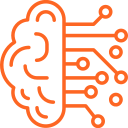
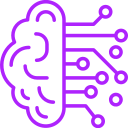
fix: cambios

diff --git a/index.html b/index.html
@@ -188,42 +188,36 @@
                     <!-- Tokenization Real Assets -->
                     <div class="flex items-center justify-center md:justify-end">
                         <h3 class="text-3xl font-bold text-right flex-1">Tokenization Real Assets</h3>
-                        <svg class="gradient-icon w-20 h-20" xmlns="http://www.w3.org/2000/svg" width="48" height="48" viewBox="0 0 24 24" fill="none"
-                            stroke="#3f6fa3" stroke-width="2" stroke-linecap="round" stroke-linejoin="round"
-                            class="lucide lucide-wallet">
-                            <path
-                                d="M19 7V4a1 1 0 0 0-1-1H5a2 2 0 0 0 0 4h15a1 1 0 0 1 1 1v4h-3a2 2 0 0 0 0 4h3a1 1 0 0 0 1-1v-2a1 1 0 0 0-1-1" />
-                            <path d="M3 5v14a2 2 0 0 0 2 2h15a1 1 0 0 0 1-1v-4" />
-                        </svg>
+                        <img src="src/images/ico-we-do-7.png" alt="" srcset="" style="height: 4rem;">
                     </div>
 
                     <!-- NFT Strategy and Execution -->
                     <div class="flex items-center  justify-center md:justify-end">
-                        <svg class="gradient-icon w-20 h-20" xmlns="http://www.w3.org/2000/svg" width="48" height="48" viewBox="0 0 24 24" fill="none" stroke="#3f6fa3" stroke-width="2" stroke-linecap="round" stroke-linejoin="round" class="lucide lucide-brush"><path d="m9.06 11.9 8.07-8.06a2.85 2.85 0 1 1 4.03 4.03l-8.06 8.08"/><path d="M7.07 14.94c-1.66 0-3 1.35-3 3.02 0 1.33-2.5 1.52-2 2.02 1.08 1.1 2.49 2.02 4 2.02 2.2 0 4-1.8 4-4.04a3.01 3.01 0 0 0-3-3.02z"/></svg>
+                        <img src="src/images/ico-we-do-3.png" alt="" srcset="" style="height: 4rem;">
                         <h3 class="text-3xl font-bold  text-left flex-1">NFT Strategy and Execution</h3>
                     </div>
 
                     <!-- Gaming, Metaverse, and Web3 -->
                     <div class="flex items-center justify-center">
                         <h3 class="text-3xl font-bold  text-right flex-1">Gaming, Metaverse and Web3</h3>
-                        <i class="fas fa-gamepad text-6xl gradient-text ml-4"></i>
+                        <img src="src/images/ico-we-do-4.png" alt="" srcset="" style="height: 4rem;">
                     </div>
 
                     <!-- AI -->
                     <div class="flex items-center justify-center">
-                        <svg class="gradient-icon w-20 h-20"  xmlns="http://www.w3.org/2000/svg" width="48" height="48" viewBox="0 0 24 24" fill="none" stroke="#3f6fa3" stroke-width="2" stroke-linecap="round" stroke-linejoin="round" class="lucide lucide-brain-circuit"><path d="M12 5a3 3 0 1 0-5.997.125 4 4 0 0 0-2.526 5.77 4 4 0 0 0 .556 6.588A4 4 0 1 0 12 18Z"/><path d="M9 13a4.5 4.5 0 0 0 3-4"/><path d="M6.003 5.125A3 3 0 0 0 6.401 6.5"/><path d="M3.477 10.896a4 4 0 0 1 .585-.396"/><path d="M6 18a4 4 0 0 1-1.967-.516"/><path d="M12 13h4"/><path d="M12 18h6a2 2 0 0 1 2 2v1"/><path d="M12 8h8"/><path d="M16 8V5a2 2 0 0 1 2-2"/><circle cx="16" cy="13" r=".5"/><circle cx="18" cy="3" r=".5"/><circle cx="20" cy="21" r=".5"/><circle cx="20" cy="8" r=".5"/></svg>
+                        <img src="src/images/ico-we-do-1.png" alt="" srcset="" style="height: 4rem;">
                         <h3 class="text-3xl font-bold  text-left flex-1">AI, LLMs & Machine Vision</h3>
                     </div>
 
                     <!-- IoT and Massive Data Ingestion -->
                     <div class="flex items-center justify-center">
                         <h3 class="text-3xl font-bold text-right flex-1">IoT and Massive Data Ingestion</h3>
-                        <i class="fas fa-network-wired text-6xl gradient-text ml-4"></i>
+                        <img src="src/images/ico-we-do-5.png" alt="" srcset="" style="height: 4rem;">
                     </div>
 
                     <!-- Networking & Cloud Infrastructure -->
                     <div class="flex items-center justify-center">
-                        <svg class="gradient-icon w-20 h-20" xmlns="http://www.w3.org/2000/svg" width="48" height="48" viewBox="0 0 24 24" fill="none" stroke="#3f6fa3" stroke-width="2" stroke-linecap="round" stroke-linejoin="round" class="lucide lucide-cloud-upload"><path d="M12 13v8"/><path d="M4 14.899A7 7 0 1 1 15.71 8h1.79a4.5 4.5 0 0 1 2.5 8.242"/><path d="m8 17 4-4 4 4"/></svg>
+                        <img src="src/images/ico-we-do-8.png" alt="" srcset="" style="height: 4rem;">
                         <h3 class="text-3xl font-bold text-left flex-1">Networking & Cloud Infrastructure
                         </h3>
                     </div>
@@ -231,7 +225,7 @@
                     <!-- Cybersecurity -->
                     <div class="flex items-center justify-center">
                         <h3 class="text-3xl font-bold text-right flex-1">Cybersecurity</h3>
-                        <svg class="gradient-icon w-20 h-20" xmlns="http://www.w3.org/2000/svg" width="48" height="48" viewBox="0 0 24 24" fill="none" stroke="#3f6fa3" stroke-width="2" stroke-linecap="round" stroke-linejoin="round" class="lucide lucide-shield-check"><path d="M20 13c0 5-3.5 7.5-7.66 8.95a1 1 0 0 1-.67-.01C7.5 20.5 4 18 4 13V6a1 1 0 0 1 1-1c2 0 4.5-1.2 6.24-2.72a1.17 1.17 0 0 1 1.52 0C14.51 3.81 17 5 19 5a1 1 0 0 1 1 1z"/><path d="m9 12 2 2 4-4"/></svg>
+                        <img src="src/images/ico-we-do-6.png" alt="" srcset="" style="height: 4rem;">
                     </div>
 
                     <!-- Fintech Infrastructure -->
@@ -260,7 +254,7 @@
                     solutions and solid strategies to stay competitive. That’s why we offer consulting and technological
                     development in the following areas:
                 </p>
-                <h3 class="text-3xl md:text-4xl font-bold mb-12 text-orange-600">
+                <h3 class="text-3xl md:text-4xl font-bold mb-12 text-gray-400">
                     Research + Development & Innovation
                 </h3>
                 <p class="text-2xl md:text-3xl mb-16 max-w-3xl mx-auto text-white">
@@ -283,7 +277,7 @@
                             <li>Security and privacy: AI with regulatory compliance.</li>
                         </ul>
                         <div
-                            class="absolute top-0 left-0 w-2 h-full bg-orange-600 group-hover:w-full transition-all duration-500">
+                            class="absolute top-0 left-0 w-2 h-full bg-gray-800 group-hover:w-full transition-all duration-500">
                         </div>
                     </div>
                     <!-- Brand & Digital Strategy -->
@@ -300,7 +294,7 @@
                             <li>Content creation and audiovisual production.</li>
                         </ul>
                         <div
-                            class="absolute top-0 left-0 w-2 h-full bg-orange-600 group-hover:w-full transition-all duration-500">
+                            class="absolute top-0 left-0 w-2 h-full bg-gray-800 group-hover:w-full transition-all duration-500">
                         </div>
                     </div>
                     <!-- Vulnerability Assessments & Compliance -->
@@ -320,7 +314,7 @@
                             <li>Risk assessments and regulatory compliance</li>
                         </ul>
                         <div
-                            class="absolute top-0 left-0 w-2 h-full bg-orange-600 group-hover:w-full transition-all duration-500">
+                            class="absolute top-0 left-0 w-2 h-full bg-gray-800 group-hover:w-full transition-all duration-500">
                         </div>
                     </div>
                     <!-- Technology Consulting & Cybersecurity -->
@@ -340,7 +334,7 @@
                             <li>Software and hardware development: Tailored solution creation.</li>
                         </ul>
                         <div
-                            class="absolute top-0 left-0 w-2 h-full bg-orange-600 group-hover:w-full transition-all duration-500">
+                            class="absolute top-0 left-0 w-2 h-full bg-gray-800 group-hover:w-full transition-all duration-500">
                         </div>
                     </div>
                 </div>
@@ -359,7 +353,7 @@
                 <h2 class="text-5xl md:text-6xl font-bold mb-12 gradient-text mt-20">OUR <strong
                         class="text-black">VALUES</strong></h2>
                 <div class="container mx-auto px-4">
-                    <div class="grid grid-cols-1 sm:grid-cols-2 md:grid-cols-4 gap-10">
+                    <div class="grid grid-cols-1 sm:grid-cols-2 md:grid-cols-2 lg:grid-cols-4 gap-10">
                         <div class="values text-center">
                             <img src="src/images/value-1.png" alt="" class="mx-auto mb-4">
                             <p class="text-2xl font-semibold text-black">DECENTRALIZATION</p>
@@ -453,15 +447,7 @@
                         Schedule a consultation and start building your future with technology.</button>
                 </form>
 
-                <div class="mt-10 text-lg">
-                    <p><i class="fas fa-envelope text-white-400 text-xl"> </i> Correo: <a
-                            href="mailto:contacto@01infinito.com"
-                            class="text-blue-400 hover:underline">contacto@01infinito.com</a></p>
-                    <p><i class="fas fa-mobile text-blue-400 text-xl"> </i> Teléfono: +54 11 4456 7890</p>
-                    <p><i class="fas fa-globe-americas text-green-400 text-xl"> </i> Sitio Web: <a
-                            href="https://01infinito.com" class="text-blue-400 hover:underline">www.01infinito.com</a>
-                    </p>
-                </div>
+
             </div>
         </section>
 

diff --git a/js/particles.js b/js/particles.js
@@ -8,7 +8,7 @@ tsParticles.load("particles-js", {
             }
         },
         color: {
-            value: "#ff5733" // Color de las partículas
+            value: "#550E5B" // Color de las partículas
         },
         shape: {
             type: "circle", // Forma de las partículas
@@ -36,7 +36,7 @@ tsParticles.load("particles-js", {
         links: {
             enable: true, // Habilita los enlaces entre partículas
             distance: 150,
-            color: "#ff5733", // Color de los enlaces
+            color: "#717175", // Color de los enlaces
             opacity: 0.6,
             width: 1
         },
